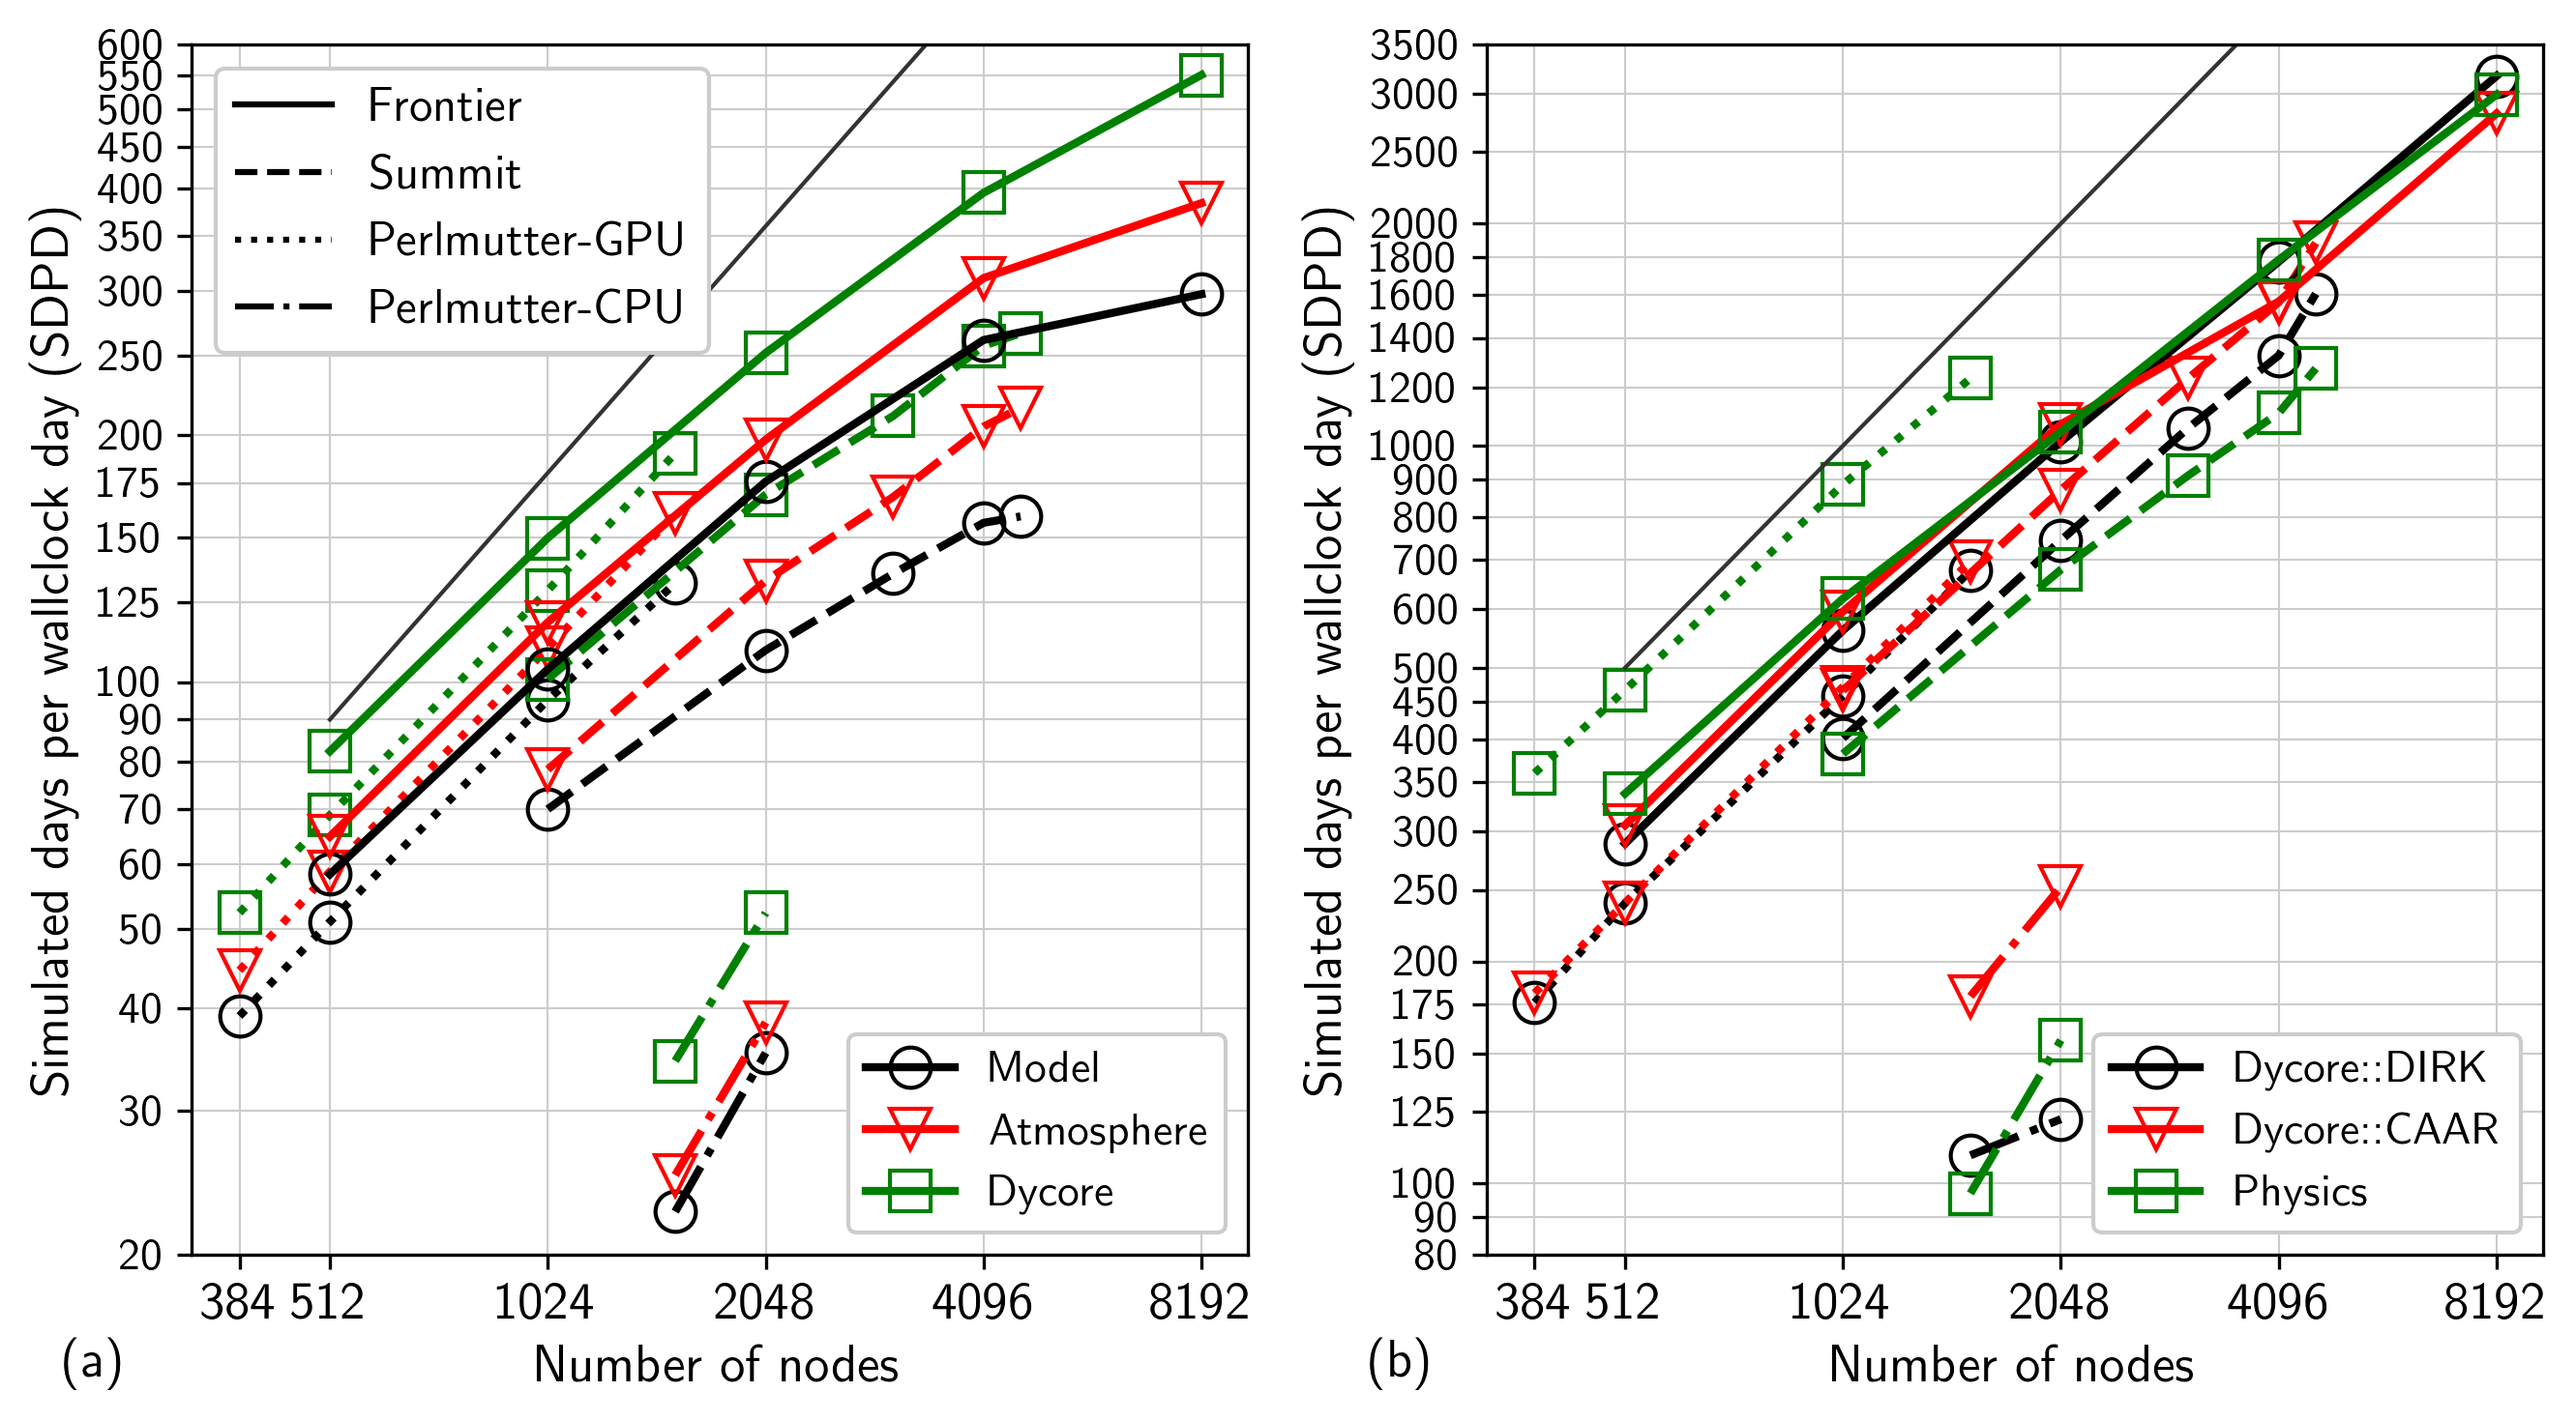
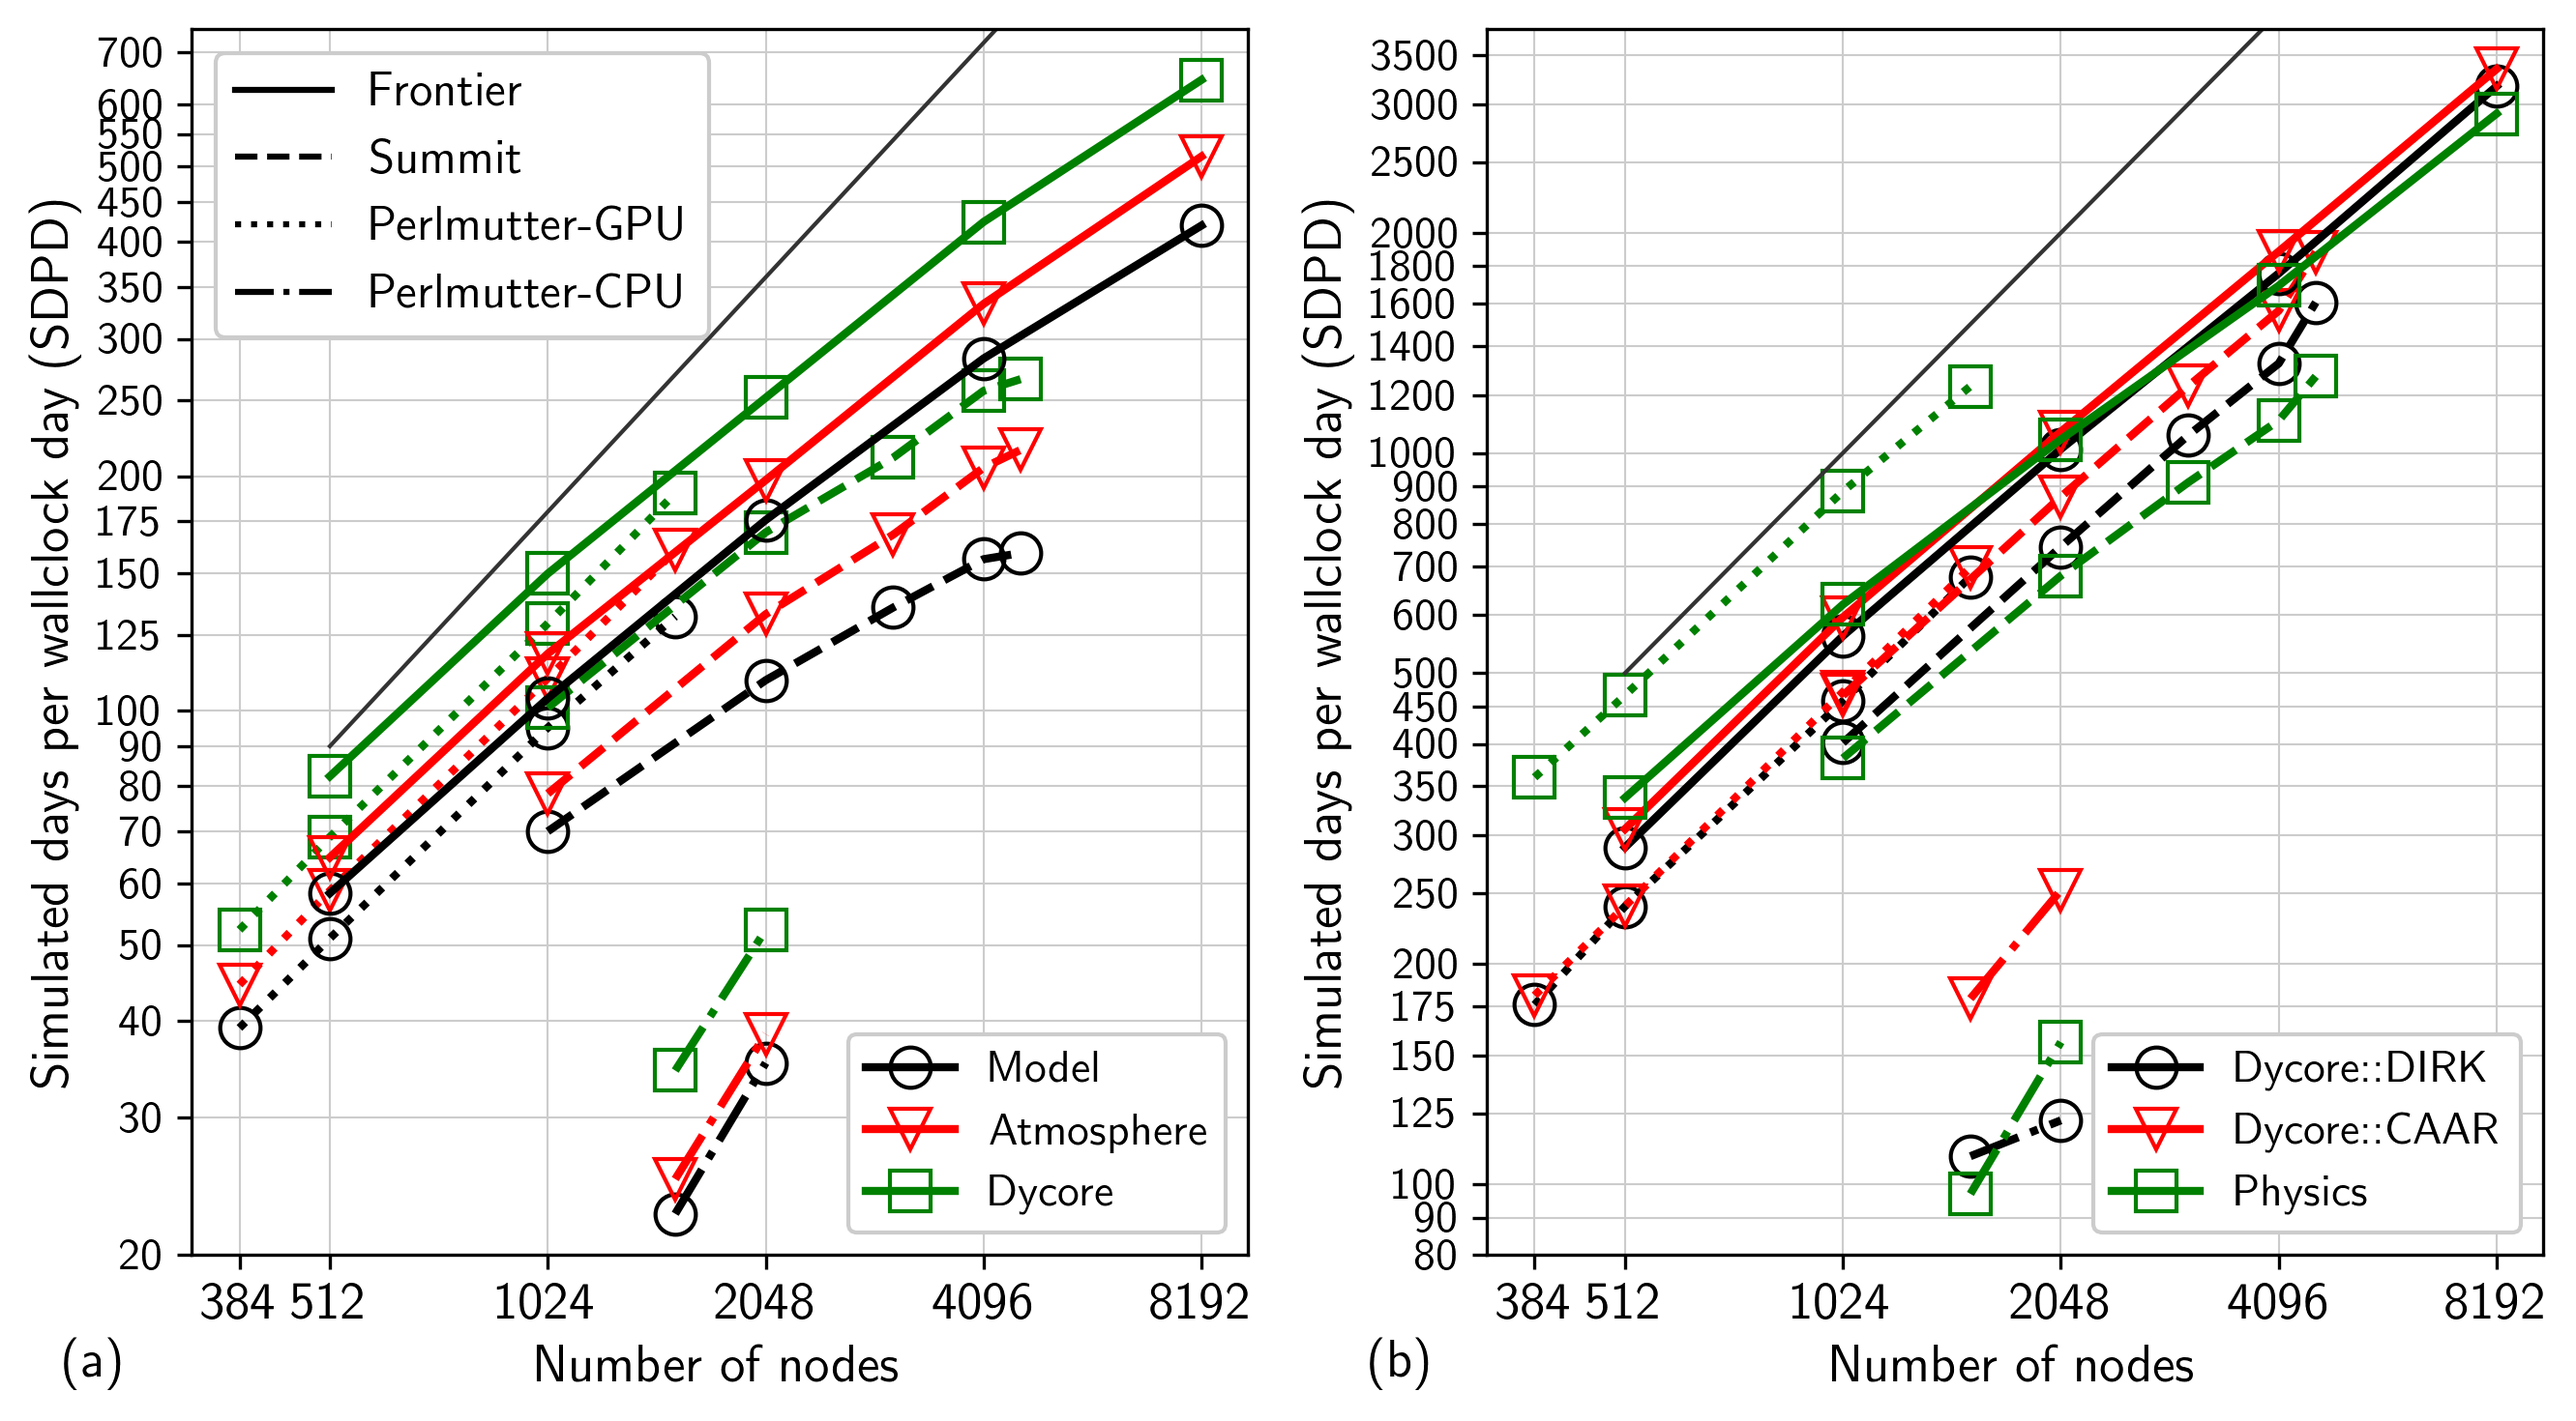
Update fig and readme.

diff --git a/screamv1-frontier-feb2023/figs/perf-table.tex b/screamv1-frontier-feb2023/figs/perf-table.tex
@@ -4,8 +4,8 @@ Machine & Nodes & Model & Atm. & Dycore & DIRK & CAAR & Physics \\
 Frontier & 512 & 58.3 & 64.8 & 82.3 & 288.8 & 306.0 & 337.6 \\
  & 1024 & 103.7 & 118.3 & 149.9 & 562.0 & 596.0 & 620.5 \\
  & 2048 & 175.6 & 197.6 & 252.1 & 1012.0 & 1069.2 & 1043.6 \\
- & 4096 & 261.5 & 311.2 & 395.4 & 1776.0 & 1568.6 & 1786.4 \\
- & 8192 & 297.4 & 384.1 & 550.6 & 3171.3 & 2820.8 & 2991.9 \\
+ & 4096 & 283.2 & 332.8 & 424.0 & 1760.2 & 1886.0 & 1693.5 \\
+ & 8192 & 419.5 & 514.5 & 645.3 & 3173.7 & 3349.6 & 2911.1 \\
 \hline
 Summit & 1024 & 70.0 & 78.2 & 100.8 & 401.4 & 465.9 & 382.3 \\
  & 2048 & 109.4 & 132.9 & 169.4 & 744.1 & 870.9 & 679.3 \\
